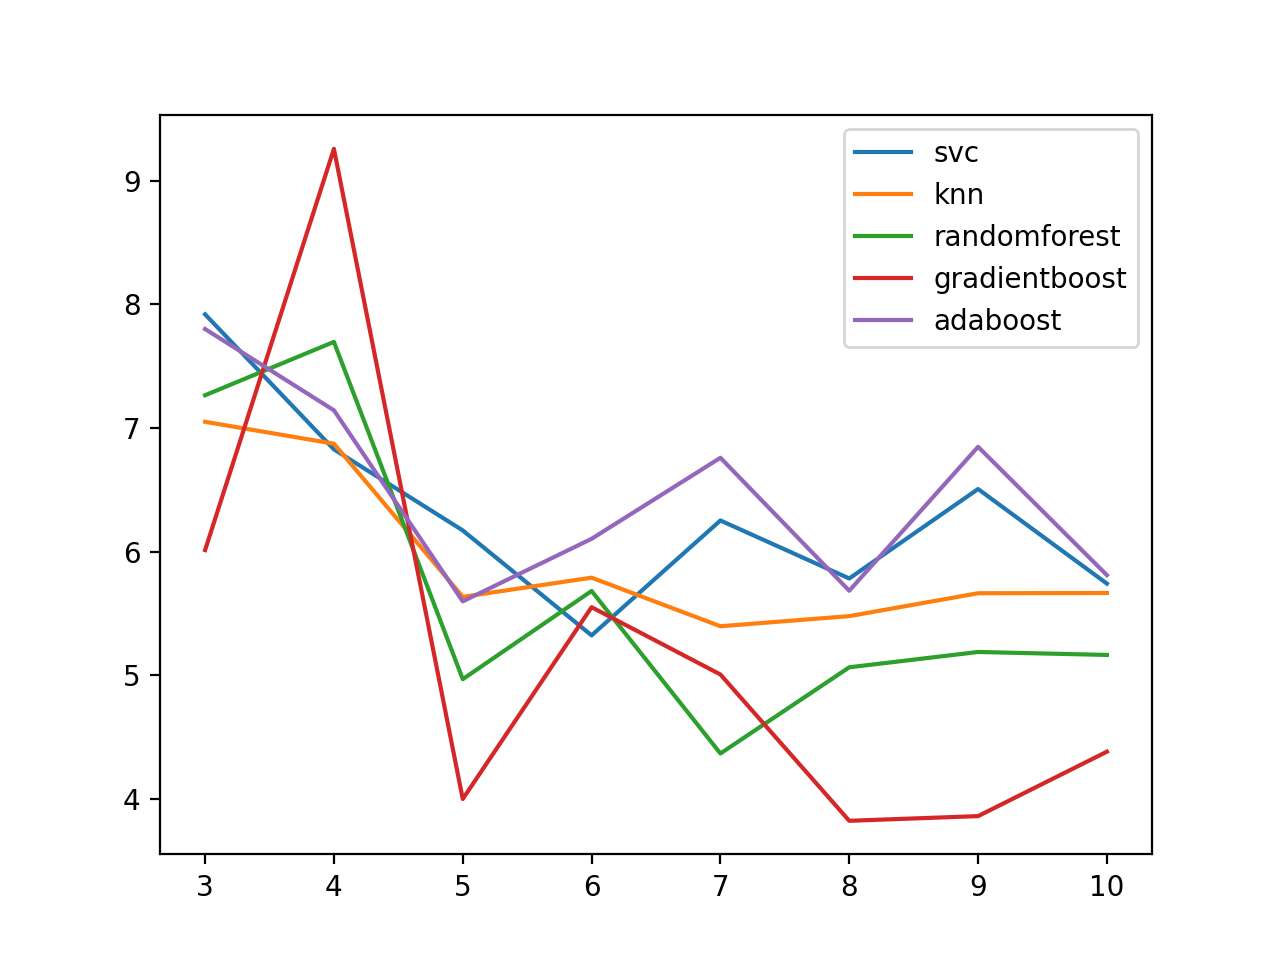
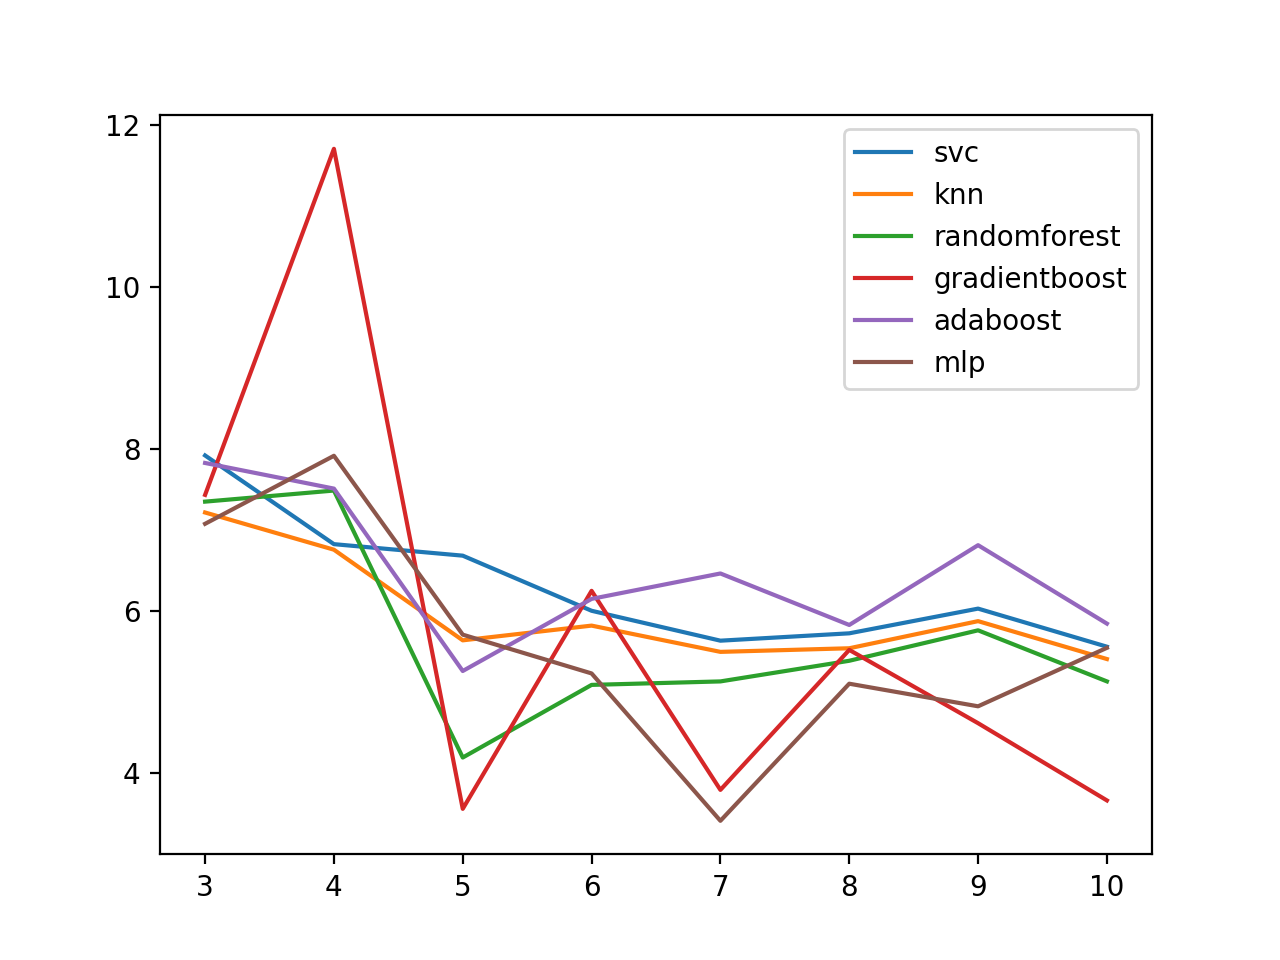
MLP and different results

diff --git a/src/models.py b/src/models.py
@@ -12,6 +12,7 @@ from sklearn.neighbors import KNeighborsClassifier
 import numpy as np
 from sklearn.svm import SVC
 from sklearn import svm
+from sklearn.neural_network import MLPClassifier
 
 ### Utils for Models ###
 
@@ -246,7 +247,24 @@ def model_adaboost():
 
 def model_knn():
     df = prepare_data()
-    k_range = list(range(1,27))
-    param_grid = dict(n_neighbors=k_range)
+    param_grid = {
+        'n_neighbors': list(range(1, 27)),
+        'weights': ['uniform', 'distance'],
+        'metric': ['euclidean', 'manhattan', 'minkowski']
+    }
     estimator = KNeighborsClassifier()
     train(df, estimator, param_grid, "knn")
+
+def model_mlp():
+    df = prepare_data()
+    param_grid = {
+        'hidden_layer_sizes': [(50,), (100,), (50, 50), (50, 50, 50), (50,50,50,50,50)],
+        'max_iter': [400, 600, 800],
+        'activation': ['tanh', 'relu'],
+        'solver': ['adam'],
+        'alpha': [ 0.0001, 0.001],
+        'learning_rate': ['constant', 'adaptive'],
+        'learning_rate_init': [0.0001, 0.001],
+    }
+    estimator = MLPClassifier(random_state=42)
+    train(df, estimator, param_grid, "mlp")

diff --git a/src/plot_results.py b/src/plot_results.py
@@ -16,4 +16,4 @@ def plot_results(models):
     plt.legend()
     plt.savefig("results.png", dpi=200)
 
-plot_results(["svc", "knn", "randomforest", "gradientboost", "adaboost"])
+plot_results(["svc", "knn", "randomforest", "gradientboost", "adaboost", "mlp"])

diff --git a/src/main.py b/src/main.py
@@ -13,6 +13,7 @@ def main():
     model_svc()
     model_adaboost()
     model_knn()
+    model_mlp()
 
     #global_model_rf() # Accuracy: 0.5454545
 
